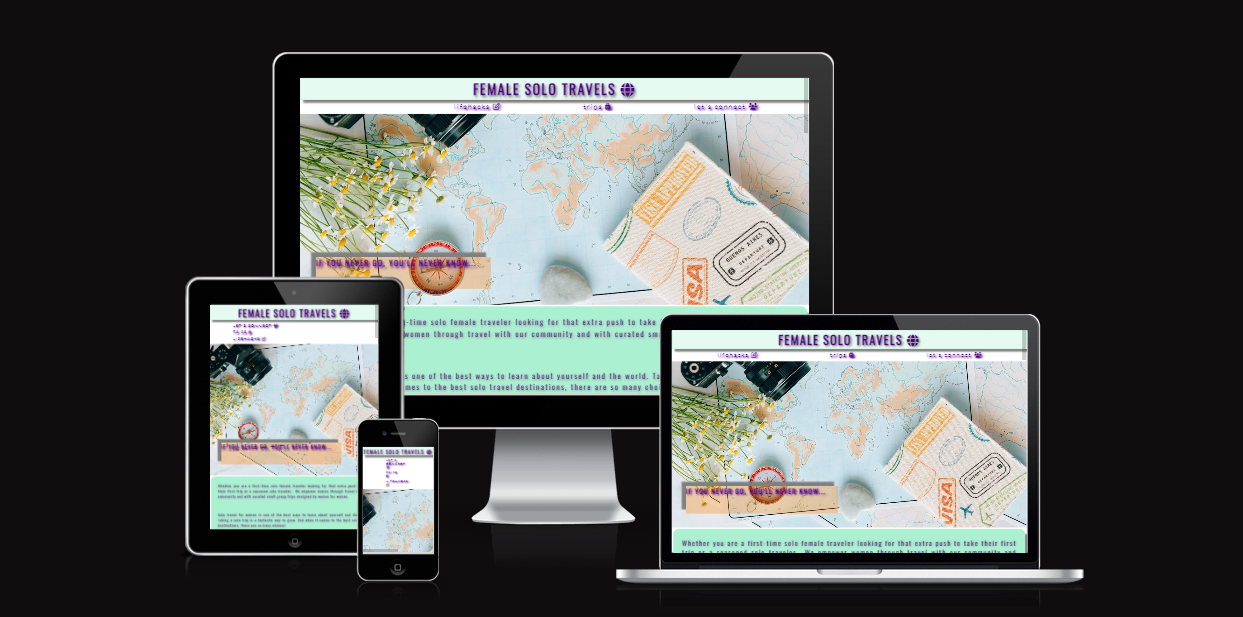
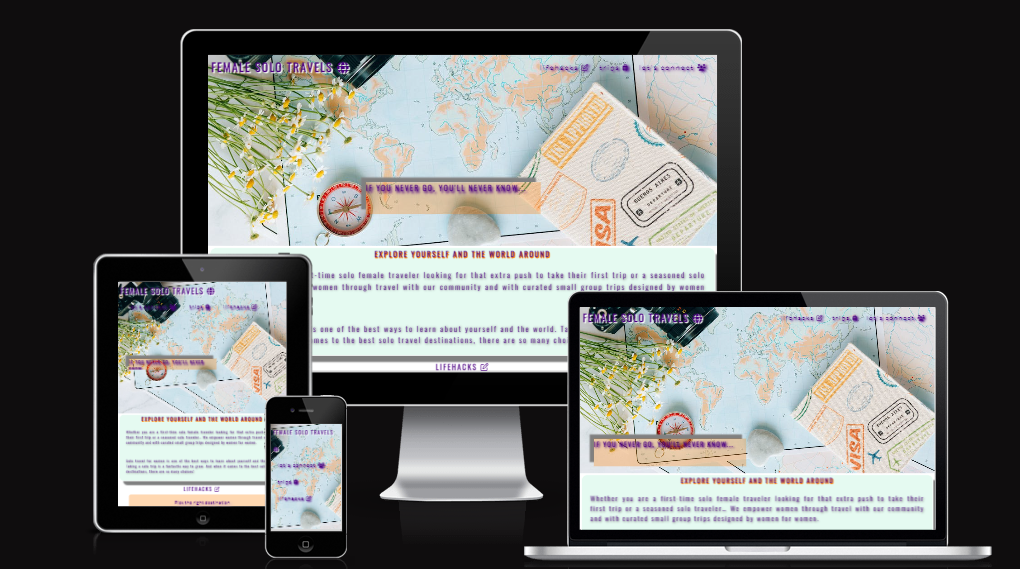
Add media queries and info to Readme file.

diff --git a/assets/css/style.css b/assets/css/style.css
@@ -945,9 +945,12 @@ footer #social-links {
         #logo {
             font-size: 150%;
         }
-
+        .cover-text {
+            font-size: 60%;
+            text-shadow: 2px 2px 10px #4B0082;
+        }
         #destinations {
-            margin-left: 30px;
+            margin-left: 20px;
             margin-right: 20px;
             padding-left: 10px;
             padding-right: 10px;
@@ -959,12 +962,15 @@ footer #social-links {
             font-size: 100%;
             padding-left: 20px;
             padding-right: 30px;
+            margin-right: 20px;
+            margin-left: 10px;
         }
 
         #research {
             padding-left: 20px;
             padding-right: 20px;
             margin-left: 30px;
+            margin-right: 10px;
             font-size: 100%;
 
         }
@@ -974,8 +980,8 @@ footer #social-links {
             padding-left: 20px;
             padding-right: 30px;
             font-size: 100%;
-            margin-left: 80px;
-
+            margin-left: 50px;
+            
         }
 
         #passport {
@@ -983,7 +989,9 @@ footer #social-links {
             padding-left: 20px;
             padding-right: 20px;
             font-size: 100%;
-            margin-left: 80px;
+            margin-left: 70px;
+            margin-right: 20px;
+            margin-bottom: 10px;
         }
 
         #suitcase {
@@ -996,8 +1004,10 @@ footer #social-links {
 
         #danger {
             font-size: 100%;
-            margin-right: 60px;
+            margin-right: 40px;
             text-align: justify;
+            margin-left: 40px;
+            margin-bottom: 15px;
         }
 
         .tips p {
@@ -1023,17 +1033,17 @@ footer #social-links {
         .fifth-tip p {
 
             margin-top: 10px;
-            margin-bottom: 0;
+            margin-bottom: 20px;
         }
 
         .sixth-tip p {
-            margin-top: 30px;
-            margin-bottom: 10px;
+            margin-top: 20px;
+            margin-bottom: 30px;
         }
 
         .seventh-tip p {
-            margin-top: 30px;
-            margin-bottom: 5px;
+            margin-top: 10px;
+            margin-bottom: 30px;
         }
 
         #community-trips h2 {
@@ -1065,9 +1075,11 @@ footer #social-links {
 
         #submit-button {
             margin-left: 20px;
+            text-shadow: 2px 2px 10px #4B0082;
         }
 
         label {
             text-align: center;
         }
-    }}
+    }
+}

diff --git a/index.html b/index.html
@@ -102,7 +102,8 @@
                     and
                     danger etc. We should respect law, traditions and culture of places we're going to. And this list
                     goes from clothes
-                    - most of muslim countries consider it rude to wear too shirt dresses - to laws: you can be fined for
+                    - most of muslim countries consider it rude to wear too shirt dresses - to laws: you can be fined
+                    for
                     chewing a gum in Singapore, for instance.
                 </p>
             </div>
@@ -114,7 +115,8 @@
                         style="width: 300px; height: 337px; object-fit: cover;" class="img-wifi"></div>
                 <p id="wifi">It's nice to have peace of mind knowing you can always use your phone to make a call or use
                     the
-                    GPS if you need to. Plus,in case you're an enterpreneur or just addicted to your phone;-) you can always go live on insta or call friends and/or family to share all the excitement and fun.</p>
+                    GPS if you need to. Plus,in case you're an enterpreneur or just addicted to your phone;-) you can
+                    always go live on insta or call friends and/or family to share all the excitement and fun.</p>
 
             </div>
             <div class="fifth-tip">
@@ -125,7 +127,8 @@
                         style="width: 300px; height: 337px; object-fit: cover;" class="img-passport"></div>
                 <p id="passport"> Always keep your money (cash/credit card) in safe places from pickpocketing and have
                     digital
-                    copies of your documents in case they're stolen. Also, be always aware of your phone - nowadays there're a lot of digital documents and information you don't want to be snatched away!</p>
+                    copies of your documents in case they're stolen. Also, be always aware of your phone - nowadays
+                    there're a lot of digital documents and information you don't want to be snatched away!</p>
 
             </div>
             <div class="sixth-tip">
